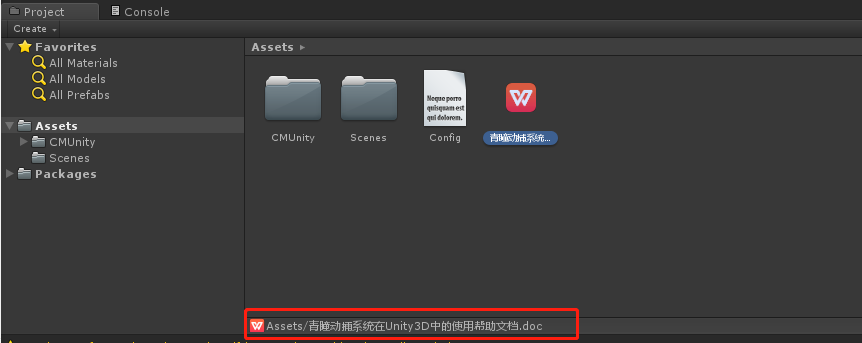
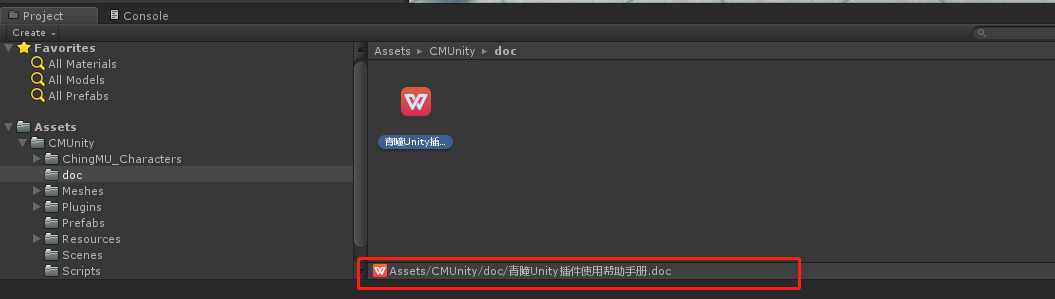
add

diff --git a/README.md b/README.md
@@ -11,14 +11,14 @@
 
 ### 3 如何开始
 
-（1）在Git上下载你需要的ChingMuPluginFouUnity.unitypackage，如下图所示：<br>
+（1）在Git下载ChingMuPluginFouUnity.unitypackage，如下图所示：<br>
 <img src="./images/UnityPlugin_description_01.png" width="685px" height="450px" title="下载插件"/><br>
 
 （2）将下载好的ChingMuPluginFouUnity.unitypackage导入到对应版本的Unity，如下图所示：<br>
 <img src="./imgs/UnityPlugin_description_02.png" width="700px" height="450px" title="导入插件"/><br>
 
-（3）找到并打开 青瞳动捕系统在Unity3D中的使用帮助文档，如下图所示：<br>
-<img src="./imgs/UnityPlugin_description_03.png" width="750px" height="300px" title="打开插件使用帮助文档"/><br>
+（3）找到并打开 青瞳Unity使用帮助手册，如下图所示：<br>
+<img src="./imgs/UnityPlugin_description_03.png" width="750px" height="250px" title="打开插件使用帮助文档"/><br>
 
-（4）跟随文档中的目录章节，学习如何使用插件提供的相关功能<br>
-<img src="./imgs/UnityPlugin_description_04.png" width="800px" height="280px" title="文档中的目录"/><br>
+（4）跟随文档中的目录章节，学习插件中提供的相关功能。<br>
+<img src="./imgs/UnityPlugin_description_04.png" width="700px" height="200px" title="文档中的目录"/><br>
